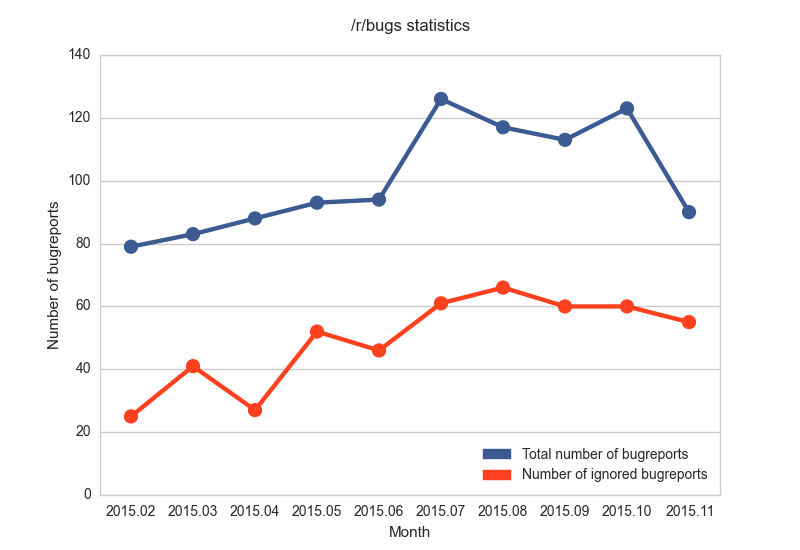
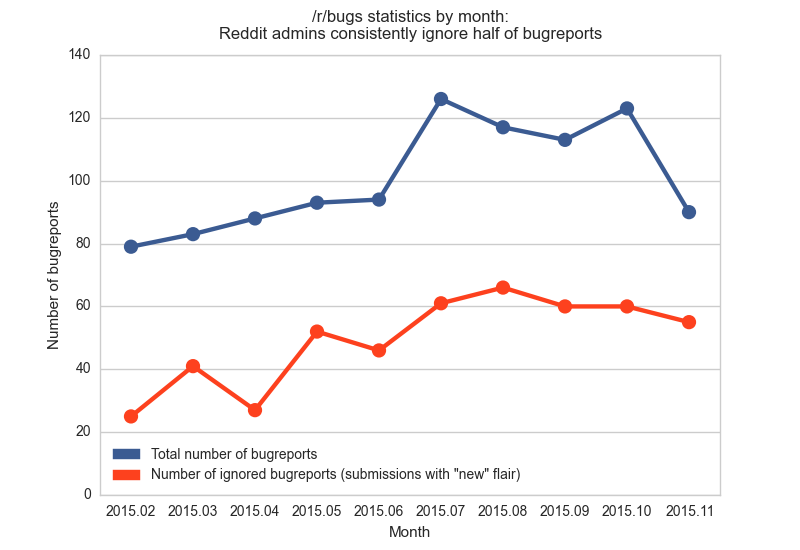
/r/bugs statistics: better legend description & better title

Changed region(s): [[0.125, 0.8036, 0.875, 0.8964], [0.2812, 0.0, 0.75, 0.0927]]

diff --git a/rbugs_statistics.py b/rbugs_statistics.py
@@ -60,12 +60,14 @@ def do_plot(flair_stats, filename):
     total_plot = sns.pointplot(x=months, y=total, color=total_plot_color)
     sns.pointplot(x=months, y=new_flaired, color=ignored_plot_color)
 
-    total_patch = mpatches.Patch(color=total_plot_color, label='Total number of bugreport')
-    ignored_patch = mpatches.Patch(color=ignored_plot_color, label='Ignored number of bugreport')
+    total_patch = mpatches.Patch(color=total_plot_color)
+    ignored_patch = mpatches.Patch(color=ignored_plot_color)
 
     total_plot.set(ylabel="Number of bugreports", xlabel="Month")
-    sns.plt.title('/r/bugs statistics\n')
-    sns.plt.legend([total_patch, ignored_patch], ['Total number of bugreports', 'Number of ignored bugreports'], loc="lower right")
+    total_plot.set_title('/r/bugs statistics by month:\nReddit admins consistently ignore half of bugreports', y=1.02)
+    sns.plt.legend([total_patch, ignored_patch], ['Total number of bugreports',
+                                                  'Number of ignored bugreports (submissions with "new" flair)'],
+                   loc="lower left")
 
     sns.plt.savefig(filename)
 
